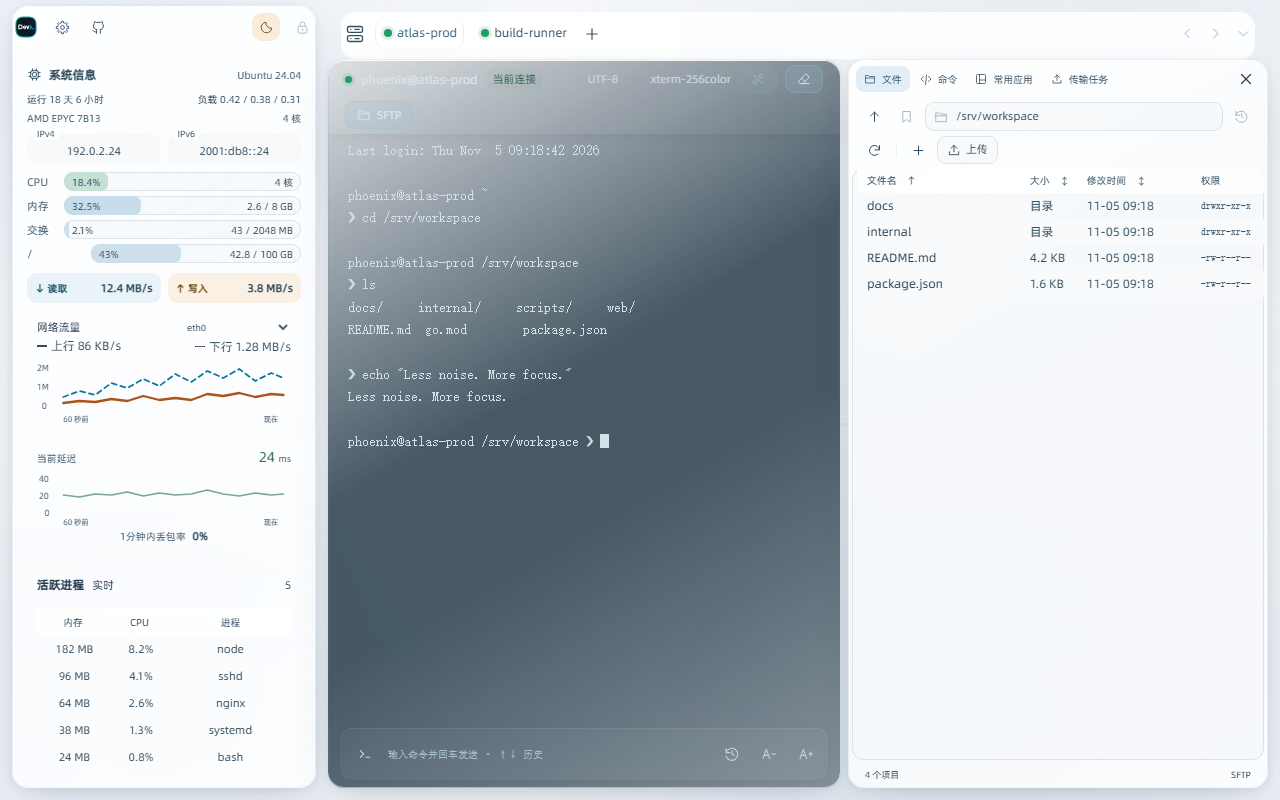
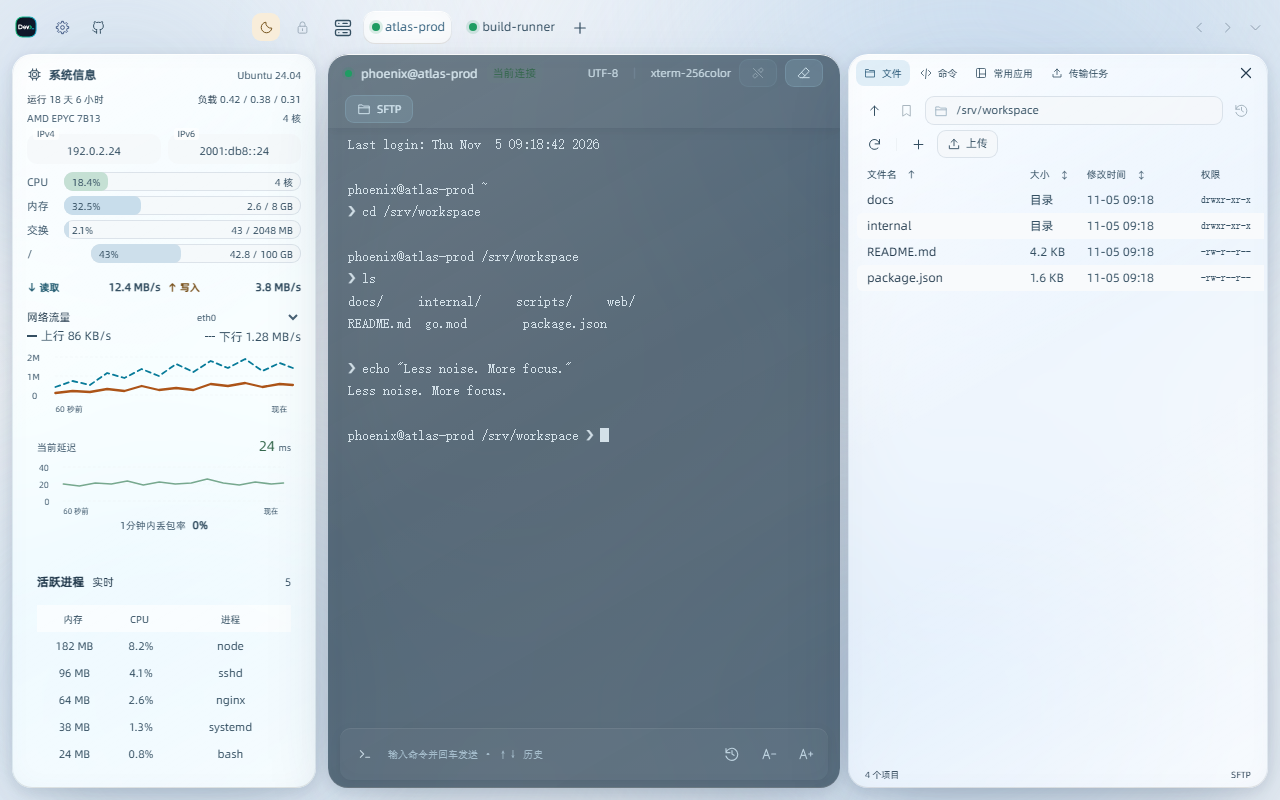
液态玻璃加强材质差异：双层流动光场与棱镜边缘
用户反馈液态玻璃与经典差异过小。在不动布局、不改经典配色的前提下
强化材质：两层光斑以不同速度反向漂移（::before/::after 视差，色相仍取
经典蓝族），面板透明度加深（表面 60%/58%，终端 70%/72%）、模糊与饱和
采样加强（侧栏 30px/1.8，面板 26px/1.5–1.7），边缘改棱镜式（上缘冷白、
下缘暖辉、内侧光晕），投影加深悬浮感，大面板圆角升 20px。回退链与
减弱动效覆盖新增的 ::after 光场。缓存令牌升 glassrich1。

验证：CSS 括号平衡、test:theme、test:tcp 通过；重截浅深预览，玻璃后
光场明显流动，与经典一眼可辨。

diff --git a/web/css/ui-styles.css b/web/css/ui-styles.css
@@ -63,45 +63,51 @@
    的玻璃板。样式键保持 frosted，展示名为液态玻璃。 —— */
 :root[data-ui-style="frosted"][data-theme] {
   --glass-base:#0f1419;
-  --glass-sheen:linear-gradient(150deg,#ffffff1a,#ffffff00 42%,#ffffff00 58%,#ffffff0c);
-  --glass-terminal-sheen:linear-gradient(150deg,#ffffff12,#ffffff00 48%,#ffffff08);
-  --glass-surface:rgb(24 31 38 / .7); --glass-toolbar:rgb(24 31 38 / .68);
-  --glass-sidebar:rgb(21 28 35 / .66); --glass-popup:rgb(24 31 38 / .88); --glass-input:rgb(13 18 24 / .72);
-  --glass-terminal:rgb(15 22 29 / .8); --glass-solid:#181f26; --glass-terminal-solid:#0f161d;
-  --glass-edge:inset 0 1px 0 #ffffff30,inset 0 -1px 0 #ffffff0d,inset 0 0 0 1px #ffffff10;
+  --glass-sheen:linear-gradient(150deg,#ffffff26,#ffffff00 40%,#ffffff00 56%,#ffffff17);
+  --glass-terminal-sheen:linear-gradient(150deg,#ffffff16,#ffffff00 48%,#ffffff0d);
+  --glass-surface:rgb(24 31 38 / .6); --glass-toolbar:rgb(24 31 38 / .6);
+  --glass-sidebar:rgb(21 28 35 / .55); --glass-popup:rgb(24 31 38 / .84); --glass-input:rgb(13 18 24 / .72);
+  --glass-terminal:rgb(15 22 29 / .7); --glass-solid:#181f26; --glass-terminal-solid:#0f161d;
+  --glass-edge:inset 0 1px 0 #d9ecff4d,inset 0 -1px 0 #ffc98f1a,inset 0 0 0 1px #ffffff12,inset 0 0 34px -14px #ffffff3d;
   --glass-ring:inset 0 0 0 1px #ffffff22;
   --surface:var(--glass-surface); --surface-inset:var(--glass-input);
   --surface-hover:rgb(36 48 58 / .6); --surface-selected:rgb(33 57 72 / .72);
-  --shadow:0 16px 44px -12px #00000080,0 2px 10px #00000044;
+  --shadow:0 26px 70px -18px #000000a6,0 3px 14px #00000059;
   color-scheme:dark; background:var(--glass-base);
 }
 :root[data-ui-style="frosted"][data-theme="light"] {
   --glass-base:#f0f3f7;
-  --glass-sheen:linear-gradient(150deg,#ffffffd0,#ffffff00 44%,#ffffff00 60%,#ffffff59);
-  --glass-surface:rgb(255 255 255 / .72); --glass-toolbar:rgb(255 255 255 / .74);
-  --glass-sidebar:rgb(255 255 255 / .66); --glass-popup:rgb(255 255 255 / .9); --glass-input:rgb(244 247 249 / .75);
-  --glass-terminal:rgb(34 55 70 / .82); --glass-solid:#ffffff; --glass-terminal-solid:#223746;
-  --glass-edge:inset 0 1px 0 #ffffffe6,inset 0 -1px 0 #ffffff7a,inset 0 0 0 1px #64809a1f;
+  --glass-sheen:linear-gradient(150deg,#ffffffea,#ffffff00 42%,#ffffff00 58%,#ffffff7a);
+  --glass-surface:rgb(255 255 255 / .58); --glass-toolbar:rgb(255 255 255 / .62);
+  --glass-sidebar:rgb(255 255 255 / .52); --glass-popup:rgb(255 255 255 / .84); --glass-input:rgb(244 247 249 / .75);
+  --glass-terminal:rgb(34 55 70 / .72); --glass-solid:#ffffff; --glass-terminal-solid:#223746;
+  --glass-edge:inset 0 1px 0 #fffffff2,inset 0 -1px 0 #d9b58c26,inset 0 0 0 1px #64809a22,inset 0 0 34px -16px #5c7c9c1c;
   --glass-ring:inset 0 0 0 1px #64809a2e;
   --surface:var(--glass-surface); --surface-inset:var(--glass-input);
   --surface-hover:#e9eef4cc; --surface-selected:#d6e8f4b8;
-  --shadow:0 16px 44px -12px #293f5630,0 2px 10px #293f5614;
+  --shadow:0 26px 70px -20px #293f5645,0 3px 14px #293f561d;
   color-scheme:light;
 }
 [data-ui-style="frosted"] body { background:var(--glass-base); color:var(--text); isolation:isolate; }
 [data-ui-style="frosted"][data-theme="light"] body { background:radial-gradient(ellipse at 15% 0%,#f9fafc,#f0f3f7 70%); }
 /* 底层大色斑缓慢漂移，为玻璃提供可折射的流动光色——液态玻璃的「液态」。
-   色相取经典强调色同族的蓝：光色是折射，不引入经典色板之外的颜色。 */
-[data-ui-style="frosted"] body::before { content:""; position:fixed; z-index:-1; pointer-events:none; inset:-14%; opacity:.5;
-  background:radial-gradient(38% 44% at 22% 22%,#31536e,#0000 62%),radial-gradient(42% 38% at 76% 14%,#25405a,#0000 64%),radial-gradient(46% 50% at 70% 80%,#1c3145,#0000 62%),radial-gradient(40% 42% at 24% 76%,#3a5f7d,#0000 64%);
-  filter:blur(80px); animation:liquid-drift 36s ease-in-out infinite alternate; }
+   色相取经典强调色同族的蓝；两层光场以不同速度反向漂移形成视差，
+   玻璃板后的世界明显在流动，这是与经典主题最直观的差异。 */
+[data-ui-style="frosted"] body::before { content:""; position:fixed; z-index:-1; pointer-events:none; inset:-14%; opacity:.72;
+  background:radial-gradient(38% 44% at 22% 22%,#34607e,#0000 62%),radial-gradient(42% 38% at 76% 14%,#274a6c,#0000 64%),radial-gradient(46% 50% at 70% 80%,#1d3a5c,#0000 62%),radial-gradient(40% 42% at 24% 76%,#3e6f96,#0000 64%);
+  filter:blur(90px); animation:liquid-drift 36s ease-in-out infinite alternate; }
+[data-ui-style="frosted"] body::after { content:""; position:fixed; z-index:-1; pointer-events:none; inset:-30%; opacity:.55;
+  background:radial-gradient(42% 46% at 62% 30%,#3a6d95,#0000 60%),radial-gradient(36% 40% at 30% 70%,#20405f,#0000 62%);
+  filter:blur(120px); animation:liquid-drift 52s ease-in-out infinite alternate-reverse; }
 [data-ui-style="frosted"][data-theme="light"] body::before {
-  background:radial-gradient(38% 44% at 22% 22%,#c9d8e6,#0000 62%),radial-gradient(42% 38% at 76% 14%,#d7e2ec,#0000 64%),radial-gradient(46% 50% at 70% 80%,#c2d2e1,#0000 62%),radial-gradient(40% 42% at 24% 76%,#d3e0ea,#0000 64%); }
+  background:radial-gradient(38% 44% at 22% 22%,#b7cfe6,#0000 62%),radial-gradient(42% 38% at 76% 14%,#c8dcee,#0000 64%),radial-gradient(46% 50% at 70% 80%,#a6c3e0,#0000 62%),radial-gradient(40% 42% at 24% 76%,#d2e4f4,#0000 64%); }
+[data-ui-style="frosted"][data-theme="light"] body::after { opacity:.6;
+  background:radial-gradient(42% 46% at 62% 30%,#aecbe8,#0000 60%),radial-gradient(36% 40% at 30% 70%,#c2d8ec,#0000 62%); }
 @keyframes liquid-drift { from { transform:translate3d(-2.5%,-1.5%,0) scale(1.05); } to { transform:translate3d(2.5%,2%,0) scale(1.14); } }
-[data-ui-style="frosted"] .sidebar { background:var(--glass-sheen),var(--glass-sidebar); backdrop-filter:blur(26px) saturate(1.2) brightness(1.03); -webkit-backdrop-filter:blur(26px) saturate(1.2) brightness(1.03); box-shadow:var(--glass-edge),inset -1px 0 var(--border),var(--shadow); }
+[data-ui-style="frosted"] .sidebar { background:var(--glass-sheen),var(--glass-sidebar); backdrop-filter:blur(30px) saturate(1.8) brightness(1.05); -webkit-backdrop-filter:blur(30px) saturate(1.8) brightness(1.05); box-shadow:var(--glass-edge),inset -1px 0 var(--border),var(--shadow); }
 /* 宽屏下监控玻璃面从顶部工具栏下方开始，与 Shell 和 SFTP 对齐。
    窄屏抽屉保持原来的定位。 */
-:root:not([data-narrow="true"])[data-ui-style="frosted"] .sidebar { background:var(--glass-sheen),var(--glass-sidebar); box-shadow:var(--glass-edge),var(--shadow); backdrop-filter:blur(26px) saturate(1.2) brightness(1.03); -webkit-backdrop-filter:blur(26px) saturate(1.2) brightness(1.03); border-radius:16px; }
+:root:not([data-narrow="true"])[data-ui-style="frosted"] .sidebar { background:var(--glass-sheen),var(--glass-sidebar); box-shadow:var(--glass-edge),var(--shadow); backdrop-filter:blur(30px) saturate(1.8) brightness(1.05); -webkit-backdrop-filter:blur(30px) saturate(1.8) brightness(1.05); border-radius:20px; }
 html[data-ui-style="frosted"]:not([data-narrow="true"]):not([data-monitor-visible="false"]) .sidebar { margin-top:48px; padding-top:0; }
 /* 玻璃面上不留硬描边：芯片只靠底面色差成块，面板内分隔用明暗差完成，
    不出现直角发丝线。输入控件的细边框保留（那是控件，不是卡片）。 */
@@ -116,14 +122,14 @@ html[data-ui-style="frosted"]:not([data-narrow="true"]):not([data-monitor-visibl
 [data-ui-style="frosted"] .sidebar .process-details { margin-top:18px; }
 [data-ui-style="frosted"] .sidebar .disk-readout:is(.read,.write) { padding:0; background:transparent; }
 [data-ui-style="frosted"] .sidebar :is(.disk-row + .disk-row,.process-table tbody tr + tr,.metric + .metric,.file-status) { border-color:var(--border); }
-[data-ui-style="frosted"] .files-panel { background:var(--glass-sheen),var(--glass-surface); box-shadow:var(--glass-edge),var(--shadow); backdrop-filter:blur(22px) saturate(1.2); -webkit-backdrop-filter:blur(22px) saturate(1.2); }
+[data-ui-style="frosted"] .files-panel { background:var(--glass-sheen),var(--glass-surface); box-shadow:var(--glass-edge),var(--shadow); border-radius:20px; backdrop-filter:blur(26px) saturate(1.7); -webkit-backdrop-filter:blur(26px) saturate(1.7); }
 /* 会话栏直接融入工作台背景，Shell 和 SFTP 的面板间距负责区分区域。 */
 [data-ui-style="frosted"] .session-bar { background:transparent; box-shadow:none; backdrop-filter:none; -webkit-backdrop-filter:none; }
 [data-ui-style="frosted"] .session-bar .brand { border-color:var(--border); }
 [data-ui-style="frosted"] .session-bar .window-controls { background:var(--surface-inset); }
 [data-ui-style="frosted"] .session-tab { background:transparent; border:0; border-radius:12px; }
 [data-ui-style="frosted"] .session-tab.active { background:var(--glass-popup); box-shadow:var(--glass-edge); }
-[data-ui-style="frosted"] .terminal-panel { background:var(--glass-terminal-sheen),var(--glass-terminal); box-shadow:var(--glass-edge),var(--shadow); backdrop-filter:blur(22px) saturate(1.15); -webkit-backdrop-filter:blur(22px) saturate(1.15); }
+[data-ui-style="frosted"] .terminal-panel { background:var(--glass-terminal-sheen),var(--glass-terminal); box-shadow:var(--glass-edge),var(--shadow); border-radius:20px; backdrop-filter:blur(26px) saturate(1.5); -webkit-backdrop-filter:blur(26px) saturate(1.5); }
 [data-ui-style="frosted"] .terminal-panel::before,[data-ui-style="frosted"] .terminal-panel::after { display:none; background-image:none; }
 [data-ui-style="frosted"] .terminal-panel :is(.terminal-meta,.terminal-command-bar) { background:#ffffff08; border-color:#ffffff16; backdrop-filter:none; -webkit-backdrop-filter:none; }
 [data-ui-style="frosted"] :is(dialog,.connections-drawer,.settings-menu,.popup-menu,.themed-select-popup) { background:var(--glass-sheen),var(--glass-popup); color:var(--text); border-color:var(--border); box-shadow:0 22px 64px #00000055,var(--glass-edge); backdrop-filter:blur(30px) saturate(1.6); -webkit-backdrop-filter:blur(30px) saturate(1.6); }
@@ -137,17 +143,17 @@ html[data-ui-style="frosted"]:not([data-narrow="true"]):not([data-monitor-visibl
 [data-ui-style="frosted"] button:focus-visible { outline:2px solid var(--accent); outline-offset:2px; }
 /* Stable opaque equivalents preserve readability when transparency is unavailable. */
 @supports not ((backdrop-filter:blur(1px)) or (-webkit-backdrop-filter:blur(1px))) {
-  [data-ui-style="frosted"] body::before { display:none; }
+  [data-ui-style="frosted"] body::before,[data-ui-style="frosted"] body::after { display:none; }
   :root[data-ui-style="frosted"][data-theme] { --glass-sheen:none; --glass-terminal-sheen:none; --glass-edge:0 0 0 0 transparent; --glass-ring:inset 0 0 0 1px var(--border); --glass-surface:var(--glass-solid); --glass-toolbar:var(--glass-solid); --glass-sidebar:var(--glass-solid); --glass-popup:var(--glass-solid); --glass-terminal:var(--glass-terminal-solid); }
 }
 @media (prefers-reduced-transparency:reduce) {
-  [data-ui-style="frosted"] body::before { display:none; }
+  [data-ui-style="frosted"] body::before,[data-ui-style="frosted"] body::after { display:none; }
   :root[data-ui-style="frosted"][data-theme] { --glass-sheen:none; --glass-terminal-sheen:none; --glass-edge:0 0 0 0 transparent; --glass-ring:inset 0 0 0 1px var(--border); --glass-surface:var(--glass-solid); --glass-toolbar:var(--glass-solid); --glass-sidebar:var(--glass-solid); --glass-popup:var(--glass-solid); --glass-terminal:var(--glass-terminal-solid); }
   [data-ui-style="frosted"] :is(.sidebar,.session-bar,.files-panel,.terminal-panel,dialog,.connections-drawer,.settings-menu,.popup-menu,.themed-select-popup) { backdrop-filter:none; -webkit-backdrop-filter:none; }
 }
-@media (prefers-reduced-motion:reduce) { [data-ui-style="frosted"] body::before { animation:none; } }
+@media (prefers-reduced-motion:reduce) { [data-ui-style="frosted"] body::before,[data-ui-style="frosted"] body::after { animation:none; } }
 @media (forced-colors:active) {
-  [data-ui-style="frosted"] body::before { display:none; }
+  [data-ui-style="frosted"] body::before,[data-ui-style="frosted"] body::after { display:none; }
   [data-ui-style="frosted"] :is(.sidebar,.files-panel,.terminal-panel,dialog,.connections-drawer,.settings-menu,.popup-menu,.themed-select-popup) { background:Canvas; color:CanvasText; outline:1px solid CanvasText; backdrop-filter:none; -webkit-backdrop-filter:none; box-shadow:none; }
   .ui-style-card[aria-pressed="true"],.ui-style-segmented button[aria-pressed="true"] { border:2px solid Highlight; }
 }

diff --git a/docs/design/global-themes-preview.html b/docs/design/global-themes-preview.html
@@ -32,7 +32,7 @@
   <link rel="stylesheet" href="../../web/css/system-identity.css?v=20260920-v002-b70">
   <link rel="stylesheet" href="../../web/css/chart-styles.css?v=20260920-v002-b70">
   <link rel="stylesheet" href="../../web/css/theme-manager.css?v=20261104-thememgr1">
-  <link rel="stylesheet" href="../../web/css/ui-styles.css?v=20261106-glassheader2">
+  <link rel="stylesheet" href="../../web/css/ui-styles.css?v=20261106-glassrich1">
   <link rel="stylesheet" href="../../web/css/light-theme.css?v=20261101-hdrmerge1">
   <link rel="stylesheet" href="../../web/css/ui-appearance.css?v=20260920-v002-b70">
   <link rel="stylesheet" href="../../web/css/security-lock.css?v=20260920-v002-b70">

diff --git a/web/index.html b/web/index.html
@@ -36,7 +36,7 @@
   <link rel="stylesheet" href="css/system-identity.css?v=20260920-v002-b70">
   <link rel="stylesheet" href="css/chart-styles.css?v=20260920-v002-b70">
   <link rel="stylesheet" href="css/theme-manager.css?v=20261104-thememgr1">
-  <link rel="stylesheet" href="css/ui-styles.css?v=20261106-glassheader2">
+  <link rel="stylesheet" href="css/ui-styles.css?v=20261106-glassrich1">
   <link rel="stylesheet" href="css/light-theme.css?v=20261101-hdrmerge1">
   <link rel="stylesheet" href="css/ui-appearance.css?v=20260920-v002-b70">
   <link rel="stylesheet" href="css/security-lock.css?v=20260920-v002-b70">

diff --git a/docs/design/GLOBAL-THEMES.md b/docs/design/GLOBAL-THEMES.md
@@ -24,7 +24,7 @@
 | 样式 | 浅色 | 深色 | 强调 | 模糊 |
 | --- | --- | --- | --- | --- |
 | 经典 | 现状不变 | 现状不变 | 现状 | 无 |
-| 液态玻璃 | 经典配色 · 白玻璃 72% | 经典配色 · 暗玻璃 70% | 经典强调色 | 侧栏 26px、面板 22px、浮层 30px |
+| 液态玻璃 | 经典配色 · 白玻璃 58% | 经典配色 · 暗玻璃 60% | 经典强调色 | 侧栏 30px、面板 26px、浮层 30px（强饱和采样） |
 | 极地 | 雪 #f6f9fc | 极夜板 #343c4a | 冰蓝 #3f6d94 / #88c0d0 | 无 |
 | 夜幕 | 日间 #eceef2 | 夜色板 #1f2133 | 蓝 #3763bd / #7aa2f7 | 无 |
 
@@ -32,13 +32,15 @@
   --text*/--accent/--border/--shadow`）与少量组件规则（顶栏伪元素、连续侧栏、
   终端面板、浮层），不新增布局、不改控件几何；经典完全不受影响。
 - **终端阅读底**：液态玻璃沿用经典配色——终端底即经典终端底加透明度（浅
-  #223746/82%，深 #0f161d/80%），文字色与经典一致，自定义字体颜色优先；
+  #223746/72%，深 #0f161d/70%），文字色与经典一致，自定义字体颜色优先；
   极地、夜幕用各自色板的深色终端底（极地 #2b323e/浅 #3b4351；
   夜幕 #16161e/浅 #2a2f4a），保证 ANSI 语义色可读。
-- 液态玻璃区别于平铺磨砂：面板更透明（saturate 约 1.2，底层光斑色相取经典
-  强调色同族的蓝，不引入经典之外的颜色），四团光斑缓慢漂移（`liquid-drift`，
-  `prefers-reduced-motion` 下静止），面板叠加镜面光泽层（`--glass-sheen`）与
-  边缘聚光内阴影（`--glass-edge`），配长弥散投影；顶部工具栏融入背景，
+- 液态玻璃区别于平铺磨砂：面板更透明（saturate 1.5–1.8，底层光斑色相取经典
+  强调色同族的蓝，不引入经典之外的颜色），**两层**光斑以不同速度反向漂移
+  （`liquid-drift`，`prefers-reduced-motion` 下静止），玻璃后的光场明显流动；
+  面板叠加镜面光泽层（`--glass-sheen`）与棱镜边缘（`--glass-edge`：上缘冷白、
+  下缘暖辉、1px 环、内侧光晕），配更深的悬浮投影，大面板圆角 20px；
+  顶部工具栏融入背景，
   监控面板从工具栏下方开始，Shell 与 SFTP 通过面板间距轻微分隔；监控信息、目录与文件列表融入各自面板，
   主要通过留白和标题区分内容，减少嵌套边框。
 - 液态玻璃不使用背景图（保存的 `backgroundId` 原样保留，切回经典即恢复）；
